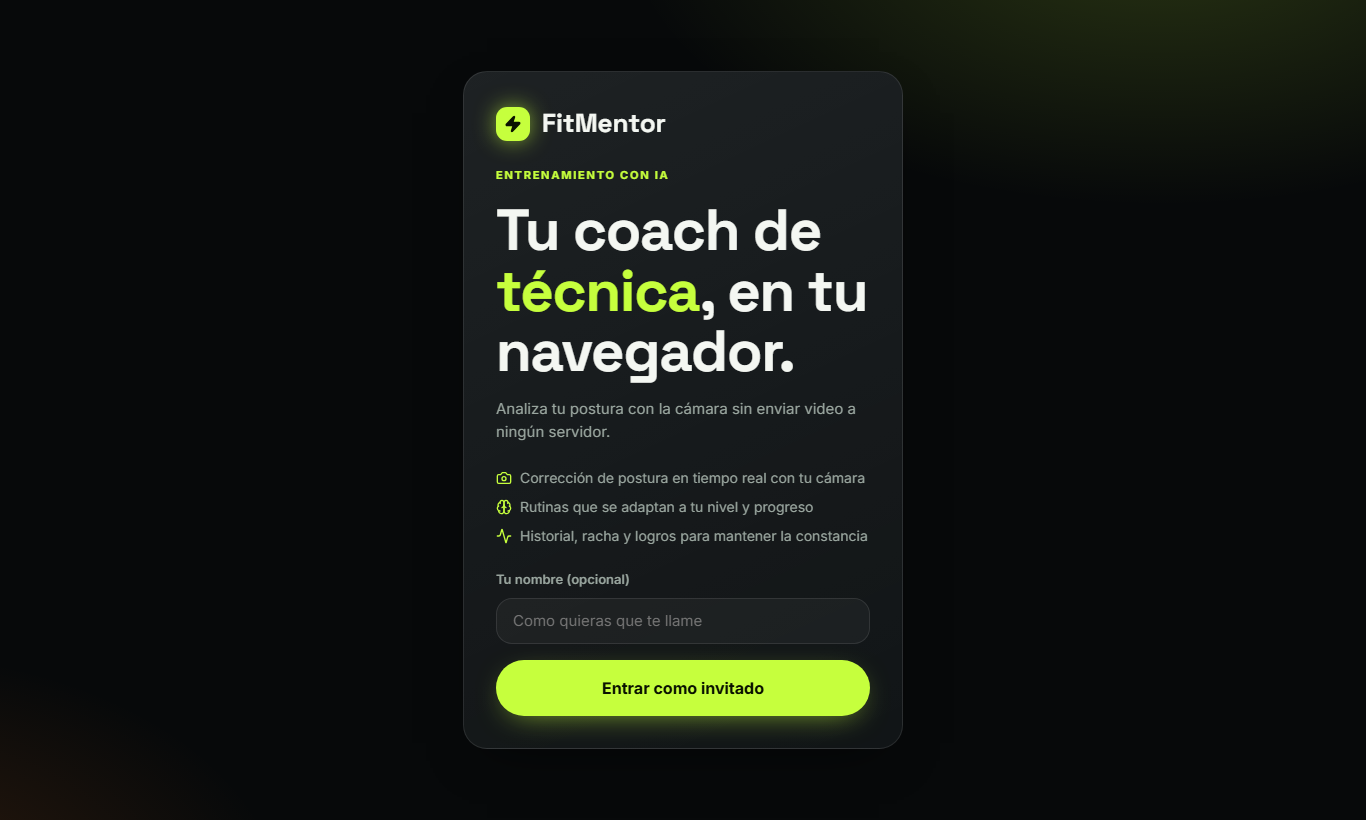
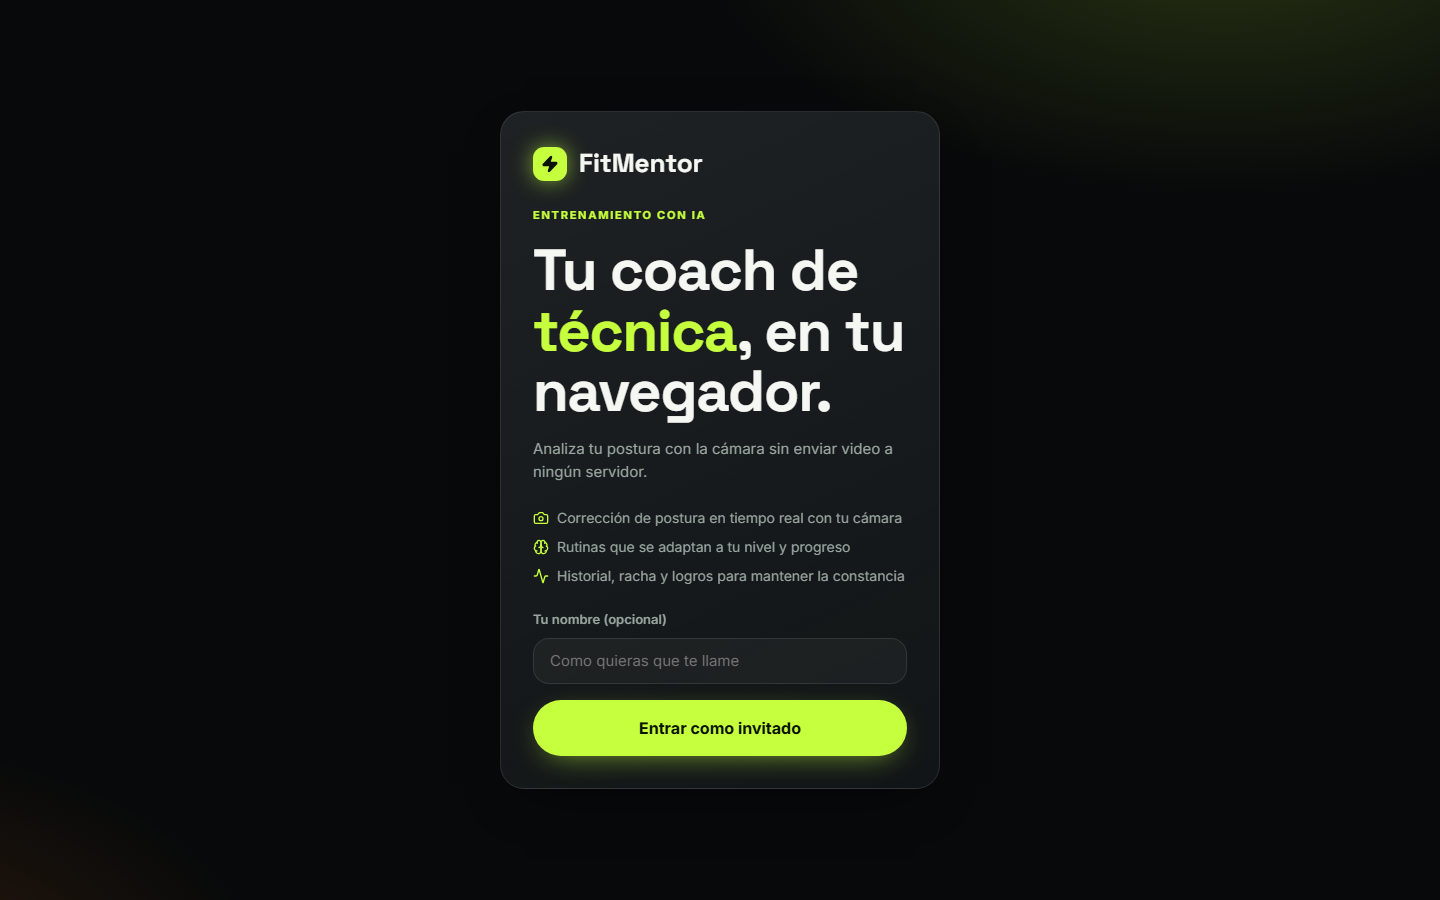
docs(screenshots): regenerate captures with a neutral demo user
Captures now cover login, home, training, progress, routine, achievements,
coach and profile on desktop and mobile, with simulated API data. The
previous captures showed a personal demo name and were removed.

Changed region(s): [[0.3382, 0.061, 0.6457, 0.9146]]

diff --git a/README.md b/README.md
@@ -152,7 +152,7 @@ src/
 
 ## Capturas
 
-Las capturas de `docs/screenshots/` se generaron con datos simulados (sin backend real) y un usuario de prueba genérico. Reproducibles con Playwright interceptando las llamadas a la API.
+Las capturas de `docs/screenshots/` se generaron con Playwright, interceptando las llamadas a la API con datos simulados (sin backend real) y un usuario de prueba genérico.
 
 ## Pendientes conocidos
 
